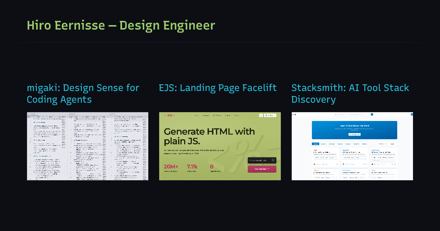
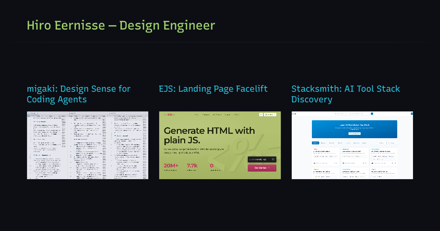
Take the masthead off 600 and the titles down to 24
Both asks are the same ask twice: the card was set heavier and larger
than the site it points at, and the gap showed once the words got long.

THE WEIGHT LANDS ON A TOKEN RATHER THAN A NOTCH. 500 is --weight-emph in
the dark theme, so the masthead now sits on the top tier the site
actually uses instead of one step above every weight in it. 600 was never
chosen here — it came in with .nav-logo's font-semibold, where it earns
its keep: two letters need the extra stroke to read as a mark at all. A
thirty-one character line does not, and at 34px the heavier cut was
closing the counters in "Design Engineer".

The titles step 26px → 24px, and the wrap is deliberately unchanged —
EJS still takes one line, migaki and Stacksmith still take two. That is
what makes 24 the safe step and 22 not: at 22 Stacksmith pulls back onto
one line, and with two of the three at one line the reserve stops
matching the row and the frames come off their shared baseline. The
reserve follows to 59px, and it is DERIVED — 2 × size × line-height —
so it has to be recomputed if either moves again rather than eyeballed.

The right-hand "HE" follows the masthead to 500 even though nothing asked
it to. Left at 600 it would have been the heavier of the two green
objects while being the smaller and less important one — the echo drawn
harder than the thing it echoes. These two move together now; size is
what ranks them.

Checked at 440px again and both edits hold. Still not wired in.
[…]

Changed region(s): [[0.0591, 0.3636, 0.9455, 0.7879], [0.3545, 0.3636, 0.9455, 0.697], [0.3545, 0.5455, 0.5909, 0.6667]]

diff --git a/design/og/card-b.html b/design/og/card-b.html
@@ -60,15 +60,23 @@
 
 			   90px → 64px with the years gone (2026-09-01, Hiro): the reserve is
 			   two title lines and nothing else now, so it tracks the title's own
-			   line-height rather than carrying a dead 26px where the numeral was. */
+			   line-height rather than carrying a dead 26px where the numeral was.
+			   → 59px when the title stepped 26px → 24px the same day. THIS VALUE
+			   IS DERIVED, not chosen: it is 2 × font-size × line-height, and if
+			   either moves again it has to be recomputed or the one-line card
+			   floats its frame off the row's baseline again. */
 			.meta {
 				display: flex;
 				flex-direction: column;
-				min-height: 64px;
+				min-height: 59px;
 			}
 
+			/* 24px, down from 26 (2026-09-01, Hiro). The wrap is unchanged — EJS
+			   still takes one line, migaki and Stacksmith still take two — which
+			   is what makes this a safe step: 22 would pull Stacksmith back onto
+			   one line and break the row's shared baseline. */
 			.title {
-				font-size: 26px;
+				font-size: 24px;
 				font-weight: 400;
 				line-height: 1.22;
 				letter-spacing: -0.02em;
@@ -101,9 +109,17 @@
 			   thirty-one, and holding the old size would have run it a third of
 			   the way across the bar and made the identity line out-shout the
 			   work below it, which is the one thing this card exists to show. */
+			/* Weight 500, down from 600 (2026-09-01, Hiro). Not an arbitrary notch:
+			   500 is --weight-emph in the dark theme, so the masthead now sits on
+			   the site's own top tier instead of a step above every weight the
+			   site uses. 600 was inherited from .nav-logo's font-semibold, and
+			   that weight was doing a job here it doesn't have to — two letters
+			   need the extra stroke to read as a mark, a thirty-one character
+			   line does not, and at 34px the heavier cut was closing up the
+			   counters in the descriptor. */
 			.mark {
 				font-size: 34px;
-				font-weight: 600;
+				font-weight: 500;
 				letter-spacing: -0.02em;
 				color: var(--dye-name);
 			}
@@ -113,10 +129,15 @@
 			   are not the same object twice — one names, one signs, and the bar
 			   is bookended by the identity the way the site's nav is anchored by
 			   it. Sized under the masthead deliberately: the mark is the echo
-			   here, not the lead. */
+			   here, not the lead.
+
+			   Follows the masthead to 500. Left at 600 it would have been the
+			   HEAVIER of the two green objects while being the smaller and less
+			   important one — the echo out-drawing the thing it echoes. The rule
+			   is that these two move together; only their size ranks them. */
 			.mark-right {
 				font-size: 30px;
-				font-weight: 600;
+				font-weight: 500;
 				letter-spacing: -0.025em;
 				color: var(--dye-name);
 			}
